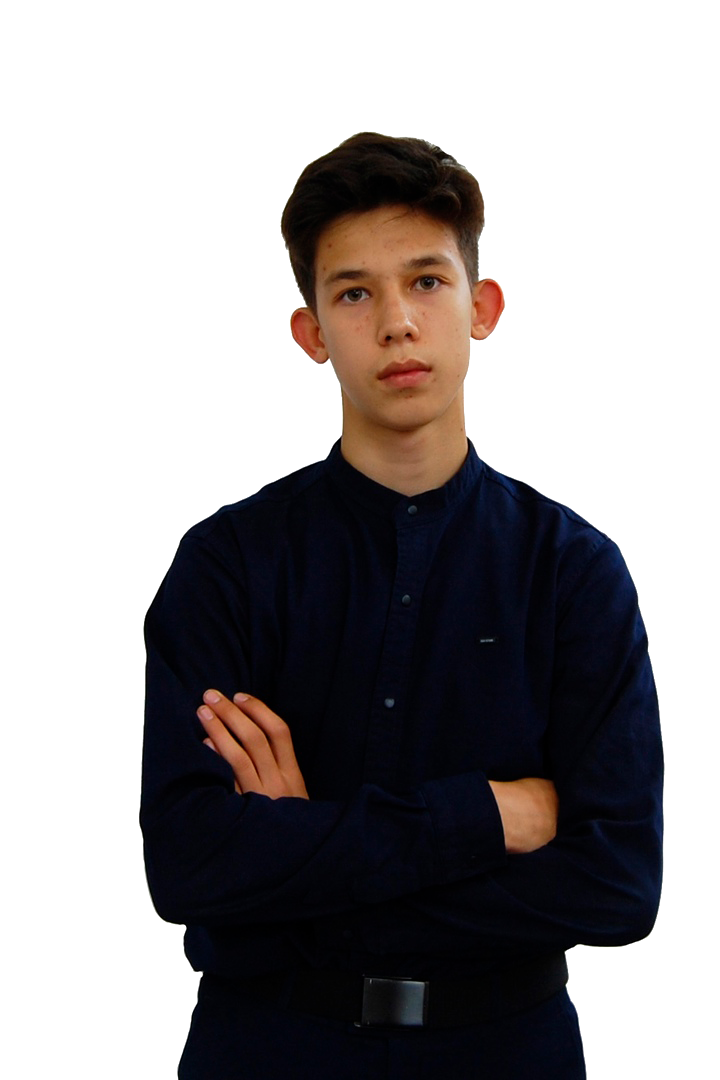
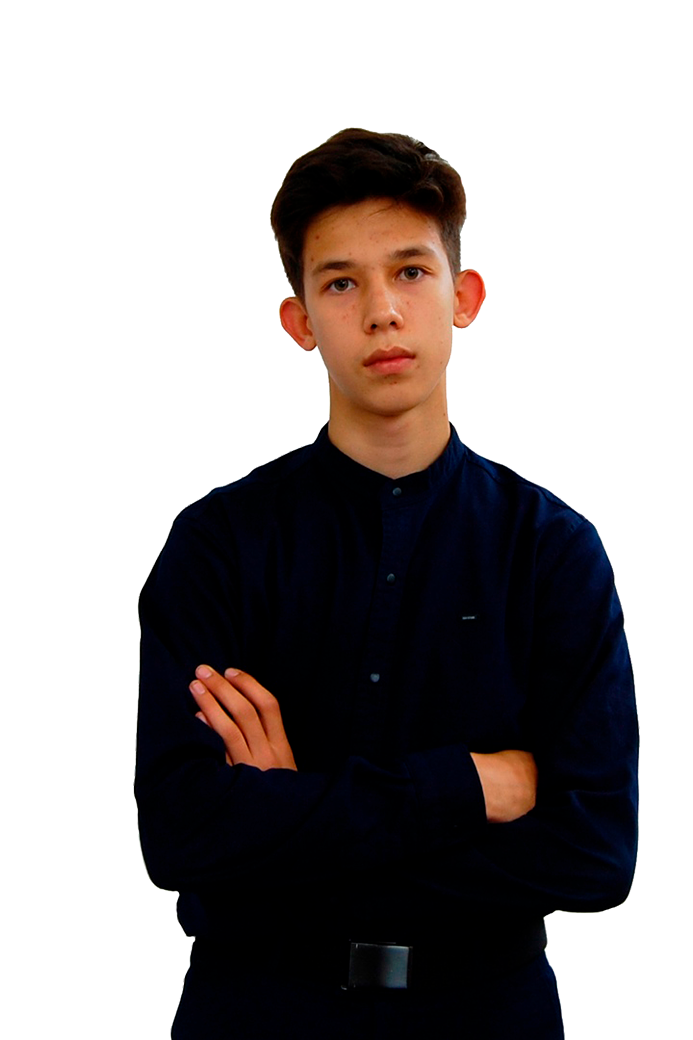
Add files via upload

diff --git a/src/index.html b/src/index.html
@@ -34,7 +34,7 @@ d-none d-lg-block">
 		<li><a href="#">КОНТАКТЫ</a></li>			
 	</ul>
 		</div>
-	<div class="col-6 offset-6 d-flex d-lg-none flex-column  justify-content-center"><div class="dropdown">
+	<!--<div class="col-6 offset-6 d-flex d-lg-none flex-column  justify-content-center"><div class="dropdown">
   <a class="btn btn-secondary dropdown-toggle" href="#" role="button" id="dropdownMenuLink" data-bs-toggle="dropdown" aria-expanded="false">
     Ссылка выпадающего списка
   </a>
@@ -45,7 +45,7 @@ d-none d-lg-block">
     <li><a class="dropdown-item" href="#">Что-то еще здесь</a></li>
   </ul>
 </div></div>
-		
+		-->
 			</div>
 </div>
 
@@ -58,7 +58,7 @@ d-none d-lg-block">
 	<div class="row ">
 	<div class="title_container">
 		<p class="fed col-xxl-6 offset-xxl-1 col-xl-7 offset-xl-0">fedorov</p>
-		<p class="sem col-xxl-3 offset-xxl-8 col-md-4 offset-md-7 col-sm-8 offset-sm-4">semen</p>
+		<p class="sem col-xxl-3 offset-xxl-8 col-md-4 offset-md-7 col-sm-8 offset-sm-4">semyon</p>
 		<p class="made col-xxl-3 offset-xxl-1 col-xl-4 col-lg-5 col-md-6">создаю эффективный инструмент для продаж - удобные и понятные сайты</p>
 		
 		<div class="case_Input col-xxl-1 offset-xxl-1 offset-xl-0"><ul><li><a href="#">Кейсы</a></li></ul></div>
@@ -82,30 +82,36 @@ d-none d-lg-block">
 			Считаю, что сайт должен выполнять поставленные задачи, быть удобен и эстетичен. Поэтому при проектировании дизайна, особое внимание уделяю структуре и логике взаимодействия. Люблю понятные интерфейсы.</p>
 	</div>
 
+
+
+
 	<div class="services">
-		<section>
-			<img src="../src/img/support%201.png" alt="">
-			<p>Подготовка проекта</p>
-			<p>Анализ ниши, целевой аудитории и конкурентов
-				Подготовка прототипа</p>
+	<p class="services_p col-xxl-5 offset-xxl-7">УСЛУГИ</p>
+		<section class="One  col-xxl-3 offset-1 text-center">
+			<img class="mini_img1 " src="../src/img/support%201.png" alt="">
+			<p class="services1 ">Подготовка проекта</p>
+			<p class="Vectorbig1">Анализ ниши, целевой <br>аудитории и конкурентов. <br>Подготовка прототипа</p>
 		</section>
 
 		<section>
+		
+			<img class="mini_img2" src="../src/img/free-icon-programming-3973133%201%20(1).png" alt="">
+			<p class="services2 offset-xxl-4">Сайты под ключ</p>
+			<p class="Vectorbig1 px-4 col-xxl-2 offset-xxl-3">Создание сайтов любой сложности - от landing page до корпоративных сайтов</p>
+		</section>
+
+		<section>
+		
 			<img src="../src/img/free-icon-seo-856388%201.png" alt="">
-			<p>Сайты под ключ</p>
-			<p>Создание сайтов любой сложности - от landing page до корпоративных сайтов</p>
+			<p class="services3">SEO</p>
+			<p class="Vectorbig1">Раскрутка и продвижение Вашего сайта, SEO оптимизация</p>
 		</section>
 
 		<section>
-			<img src="../src/img/free-icon-seo-856388%201.png" alt="">
-			<p>SEO</p>
-			<p>Раскрутка и продвижение Вашего сайта, SEO оптимизация</p>
-		</section>
-
-		<section>
+		
 			<img src="../src/img/free-icon-programming-3973133%202.png" alt="">
-			<p>Редизайн сайтов</p>
-			<p>Дизайн
+			<p class="services4">Редизайн сайтов</p>
+			<p class="Vectorbig1">Дизайн
 				для устаревших сайтов.
 				Расширение функционала. Для сайтов, изначально спроектированых неверно.</p>
 		</section>

diff --git a/src/css/style.css b/src/css/style.css
@@ -5,7 +5,7 @@
 height:700px;
 left: 0px;
 top: 0px;
-background-image: url(../img/me.png);
+background-image: url(../img/99mmm.png);
 background-repeat: no-repeat;
 background-position: center;
 background-color: #1D2C43;
@@ -122,8 +122,8 @@ margin-left: -32px;
 		background: rgba(0,0,0,0.4)
 	}}
 @media(max-width: 477px){
-	.fed, .sem{ font-size: 78 px;}
-	margin-left: 35px;
+	.fed, .sem{ font-size: 70px;
+	;}
 }
 
 @media(max-width: 1199px){
@@ -160,35 +160,95 @@ font-weight: 300;
 font-size: 20px;
 line-height: 24px;	
 color: #CED6E3;
-	padding-top: 43px;
+padding-top: 43px;
 }
 
 @media(max-width: 576px){
 	.aboutMe{
-		font-size: 70px;
-		text-align: center;
-	}	
+	font-size: 70px;
+	text-align: center;
+	}
+	
 }
 
 
+.services{
+	height: 850px;
+	background-color: #1E1E1E;
+	background: url(../img/Vector%201.png) 14% 40%/auto 50% no-repeat, url(../img/Vector%202%20.png) 37% 80%/auto 50% no-repeat, url(../img/Vector%203.png) 64% 70%/auto 50% no-repeat, url(../img/Vector%204.png) 89% 55%/auto 50% no-repeat ; 
+	
+	background-color: #1E1E1E;
+}
 
+.services_p{
+font-family: 'Defectica';
+font-style: normal;
+font-weight: 400;
+font-size: 96px;
+line-height: 106px;
+color: #CED6E3;
+padding-top: 85px;
+}
 
+.services section{
+ color: #CED6E3;
+}
+/*
+.Vector1{
+	margin-top: -66px;
+}
+*/
+.mini_img1{
+margin-top: 70px;
+	padding-right: 10px;
+}
 
+.services1{
+padding-top: 20px;
+padding-right: 16px;
+font-family: 'Montserrat';
+font-style: normal;
+font-weight: 600;
+font-size: 16px;
+line-height: 20px;
+color: black;
+}
 
+.Vectorbig1{
+font-family: 'Montserrat';
+font-style: normal;
+font-weight: 300;
+font-size: 16px;
+line-height: 20px;
+text-align: center;
+color: #000000;
+	margin-right: 15px;
+}
+/*
+.Vector2{
+	margin-top: -108px;
+	margin-left: 31.333%;
+}
 
+.mini_img2{
+margin-left:-157px;
+margin-top: -233px;}
 
+.services2{
+font-family: 'Montserrat';
+font-style: normal;
+font-weight: 600;
+font-size: 16px;
+line-height: 20px;
+color: black;
+margin-top: -229px;
+margin-left: 36.333%;
+}
 
-
-
-
-
-
-
-
-
-
-
-
+.Vectorbig1{
+margin-left: 496px;	
+}
+*/
 
 
 
